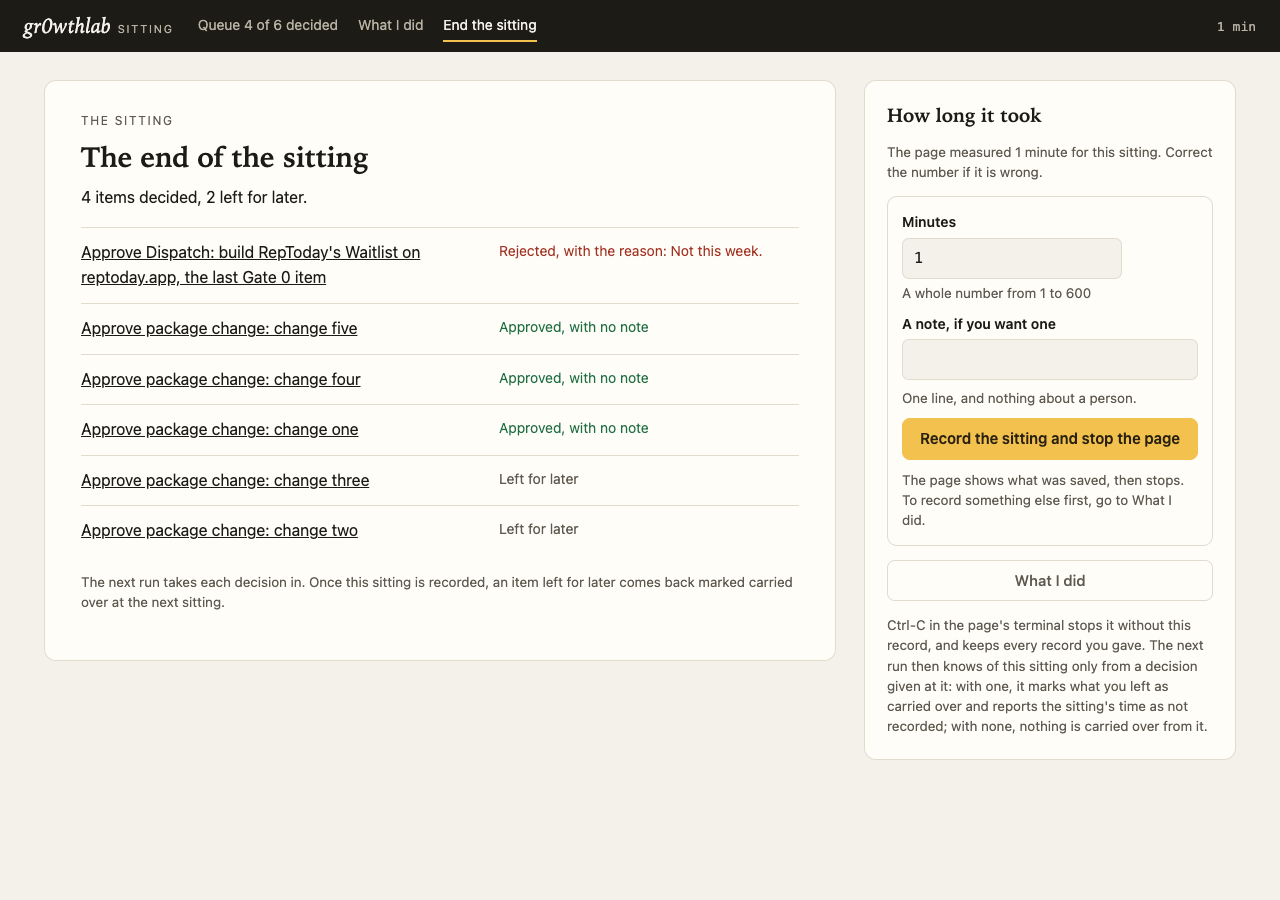
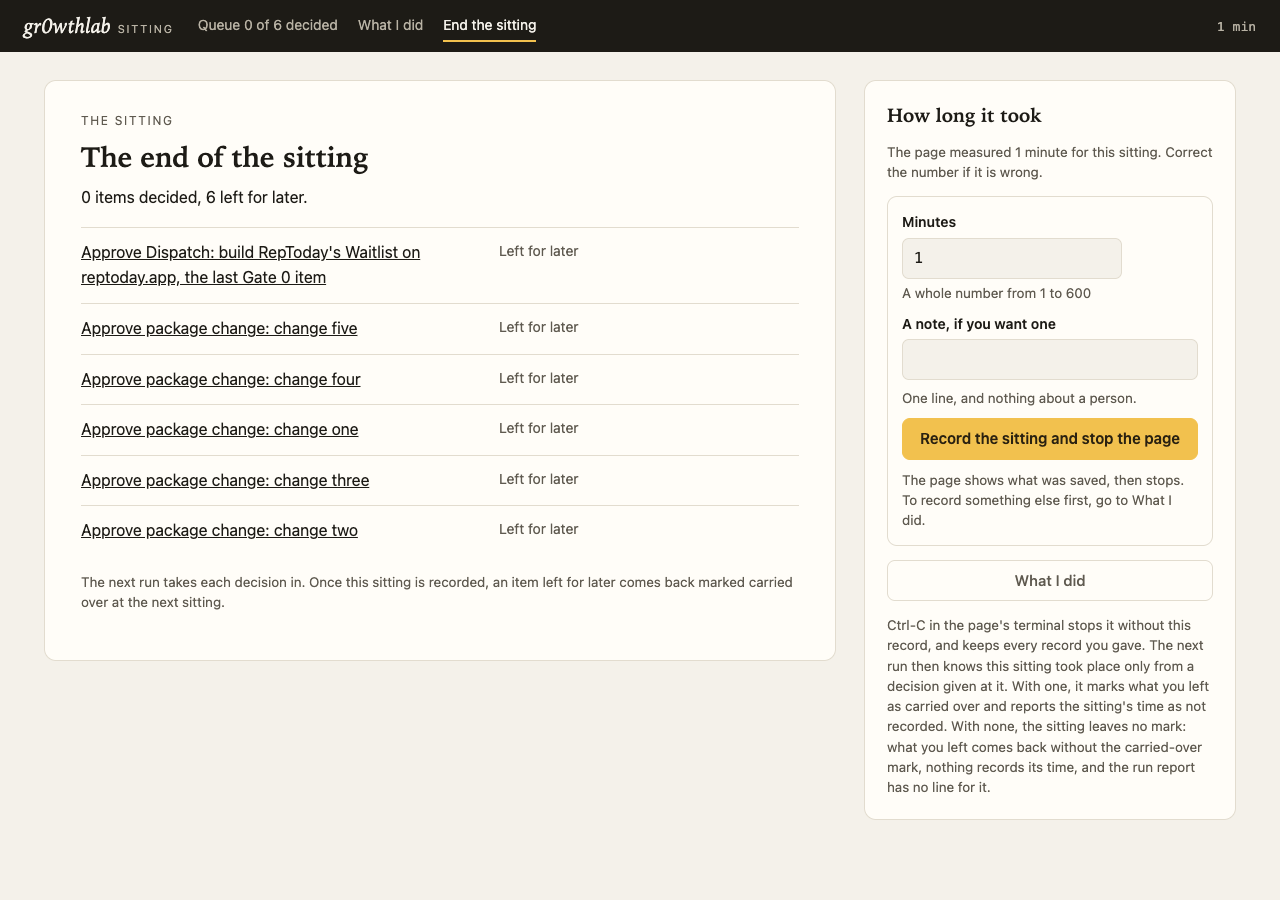
no-mistakes(review): First sessions back; corner unreported; 1289 tests, none failed

diff --git a/src/gr0wthlab/page.py b/src/gr0wthlab/page.py
@@ -22,9 +22,8 @@ from collections.abc import Iterable, Mapping, Sequence
 from urllib.parse import quote
 
 from . import exchange, founder, sitting
-from .beta import COUNT_LABELS
 from .exchange import plural
-from .sitting import COUNTS, END, ITEM, START, Entry, Message, Recruiting, Saved, View
+from .sitting import COUNT_LABELS, COUNTS, END, ITEM, START, Entry, Message, Recruiting, Saved, View
 
 VOID = ("br", "hr", "input", "link", "meta", "source")
 KIND_NAMES = {
@@ -208,7 +207,7 @@ def saved_words(saved: Saved) -> str:
         return f"The sitting on {record.get('date')} took {plural(record.get('minutes'), 'minute')}."
     if saved.kind == founder.BETA_REPORTS:
         counts = ", ".join(
-            f"{COUNT_LABELS[key]} {'not reported' if record.get(key) is None else record.get(key)}"
+            f"{COUNT_LABELS[key].lower()} {'not reported' if record.get(key) is None else record.get(key)}"
             for key in exchange.BETA_COUNTS
         )
         return f"{record.get('product')}, on {record.get('date')}: {counts}."
@@ -695,7 +694,7 @@ class Page:
                 "p",
                 f"Last given on {latest.day}: "
                 + ", ".join(
-                    f"{COUNT_LABELS[key]} "
+                    f"{COUNT_LABELS[key].lower()} "
                     + ("not reported" if latest.counts.get(key) is None else str(latest.counts[key]))
                     for key in exchange.BETA_COUNTS
                 )
@@ -718,7 +717,7 @@ class Page:
             class_="sheet",
         )
         fields = [
-            self.small_field(key, sitting.count_label(key), typed.get(key, ""), "A whole number, or leave it blank")
+            self.small_field(key, COUNT_LABELS[key], typed.get(key, ""), "A whole number, or leave it blank")
             for key in exchange.BETA_COUNTS
         ]
         answer = tag(
@@ -831,8 +830,8 @@ class Page:
                 "Ctrl-C in the page's terminal stops it without this record, and keeps every record you gave. The"
                 " next run then knows this sitting took place only from a decision given at it. With one, it marks"
                 " what you left as carried over and reports the sitting's time as not recorded. With none, the"
-                " sitting leaves no mark: what you left comes back without the carried-over mark, and its time is"
-                " not recorded.",
+                " sitting leaves no mark: what you left comes back without the carried-over mark, nothing records"
+                " its time, and the run report has no line for it.",
                 class_="hint",
             ),
             class_="answer",

diff --git a/src/tests/test_serve.py b/src/tests/test_serve.py
@@ -661,14 +661,14 @@ class WalkTest(ServeTestCase):
         self.assertEqual(status, 422)
         refused = Seen(body)
         named = [text.strip() for text in refused.text]
-        for label in ("Invitations sent", "Accepted", "Sessions booked"):
+        for label in ("Invitations sent", "Accepted", "First sessions booked"):
             with self.subTest(label=label):
                 self.assertIn(label, named, "the field's own name")
                 self.assertIn(f"{label} must be a whole number, written in digits.", refused.said)
         fields = {"invitations_sent": "10", "accepted": "", "sessions_booked": ""}
         path, shown = self.follow(self.post("/counts/RepToday", fields))
         self.assertEqual(path, f"/counts/RepToday?saved=RepToday-{DAY}&kind=beta-reports")
-        words = "invitations sent 10, accepted not reported, sessions booked not reported"
+        words = "invitations sent 10, accepted not reported, first sessions booked not reported"
         self.assertIn(f"Saved. RepToday, on {DAY}: {words}.", shown.said)
         record = self.record("beta-reports", f"RepToday-{DAY}")
         self.assertEqual((record["invitations_sent"], record["accepted"], record["sessions_booked"]), (10, None, None))
@@ -866,7 +866,8 @@ class EndTest(ServeTestCase):
     def test_a_sitting_that_left_no_sitting_record_and_no_decision_leaves_no_mark_whatever_else_it_saved(self):
         """The decided corner: five items left for later, a Beta Cohort report saved, and the page's process ended.
         The report is taken in as any report is, and it is no sign of a sitting: the five stay open without the
-        carried-over mark, and the run knows of no sitting, so no time is recorded for one."""
+        carried-over mark, and the run knows of no sitting, so nothing records that sitting's time and the run
+        report has no line for it."""
         fakes.beta_mandu(self.mandu)
         view = self.root / "RepToday-exports" / "waitlist-view.json"
         self.env["GR0WTHLAB_WAITLIST_VIEW"] = str(view)

diff --git a/src/gr0wthlab/sitting.py b/src/gr0wthlab/sitting.py
@@ -34,7 +34,6 @@ from pathlib import Path
 
 from . import exchange, founder
 from .areas import UnsafeFile, read_plain
-from .beta import COUNT_LABELS
 from .boundary import FOUNDER, LEDGER, PRODUCT_REGISTRY, ConfigError, canonical, load_json
 from .messages import CREATOR
 from .queue import APPROVED, OPEN, QUEUE_FILE, REVIEW_QUEUE
@@ -53,6 +52,13 @@ HOLDS_ADDRESS = (
     "it holds something that looks like an email address; no record may hold an address or anything else about a person"
 )
 START, ITEM, COUNTS, END = "start", "item", "counts", "end"
+# The three Beta Cohort counts as the page names them: on each field, in the reason a value typed there is refused,
+# and in what the page says was saved.
+COUNT_LABELS = {
+    "invitations_sent": "Invitations sent",
+    "accepted": "Accepted",
+    "sessions_booked": "First sessions booked",
+}
 
 
 class Refused(Exception):
@@ -194,12 +200,6 @@ class View:
         steps = self.steps()
         index = steps.index(step) if step in steps else 0
         return steps[max(index - 1, 0)]
-
-
-def count_label(key: str) -> str:
-    """One of the three Beta Cohort counts as the page names it: on its field, and in the reason a value typed there
-    is refused."""
-    return COUNT_LABELS[key][:1].upper() + COUNT_LABELS[key][1:]
 
 
 def one_line(value: str, name: str, required: bool, reasons: list[str]) -> str | None:
@@ -498,7 +498,7 @@ class Sitting:
             raise Refused([f"no Beta Build is recorded for {product}, so there is no Beta Cohort to count"])
         reasons: list[str] = []
         counts = {
-            key: whole_number(given.get(key, ""), count_label(key), 0, None, reasons) for key in exchange.BETA_COUNTS
+            key: whole_number(given.get(key, ""), COUNT_LABELS[key], 0, None, reasons) for key in exchange.BETA_COUNTS
         }
         if not reasons and all(value is None for value in counts.values()):
             reasons.append("give at least one count; a count you leave blank is recorded as not reported, never zero")

diff --git a/src/tests/test_sitting.py b/src/tests/test_sitting.py
@@ -686,7 +686,7 @@ class RecruitingTest(SittingTestCase):
             ),
             ({"accepted": "three"}, "Accepted must be a whole number, written in digits"),
             ({"accepted": "-1"}, "Accepted must be a whole number, written in digits"),
-            ({"sessions_booked": "2.5"}, "Sessions booked must be a whole number, written in digits"),
+            ({"sessions_booked": "2.5"}, "First sessions booked must be a whole number, written in digits"),
             ({"invitations_sent": "1e3"}, "Invitations sent must be a whole number, written in digits"),
         ):
             with self.subTest(given=given):

diff --git a/src/tests/test_page.py b/src/tests/test_page.py
@@ -385,7 +385,7 @@ class ViewTest(unittest.TestCase):
                 "beta-reports",
                 "RepToday-2026-10-11",
                 dict(counts, sessions_booked=0),
-                "RepToday, on 2026-10-11: invitations sent 8, accepted not reported, sessions booked 0.",
+                "RepToday, on 2026-10-11: invitations sent 8, accepted not reported, first sessions booked 0.",
             ),
             ("beta-builds", "RepToday", build, "RepToday: Beta Build approved on 2026-10-09; recruiting is open."),
             (

diff --git a/docs/live-checks/20261013-gr0wthlab-decisions-in-gr0wthlab.md b/docs/live-checks/20261013-gr0wthlab-decisions-in-gr0wthlab.md
@@ -11,7 +11,7 @@ How to read the paths:
 - `<lab>` is the throwaway lab under `<tmp>` described below.
 - Where a quoted line held the home folder's or the temporary folder's full path, that prefix was replaced with `~` or `<tmp>`.
 
-All times are Mac local time (PDT, UTC-7): rounds 1 and 2 on 2026-10-12, rounds 3, 4, and 5 on 2026-10-13.
+All times are Mac local time (PDT, UTC-7): rounds 1 and 2 on 2026-10-12, rounds 3 to 6 on 2026-10-13.
 A run identifier carries the UTC date, which was already the next day each time.
 Codex CLI 0.160.0 with `gpt-6-luna` at `high` reasoning effort throughout.
 
@@ -344,7 +344,7 @@ Both labs' second runs and the second lab's terminal said `1 minutes`; the run r
 ## Round 5: after the review of the carry-over rule
 
 Review asked whether a sitting should be known from more than a decision, and the rule was decided as it stood: a run knows a sitting took place from its sitting record, which the page writes when the Founder ends the sitting on the page, or from a decision given at it, and nothing else is read as the sign of a sitting.
-A sitting that ended without its record, by the terminal, a crash, or a closed laptop, and at which no decision was given, leaves no mark: its undecided items stay open and come back at the next sitting without the carried-over mark, its time is not recorded, and nothing the Founder saved is lost.
+A sitting that ended without its record, by the terminal, a crash, or a closed laptop, and at which no decision was given, leaves no mark: its undecided items stay open and come back at the next sitting without the carried-over mark, nothing records its time, the run report has no line for it, and nothing the Founder saved is lost.
 This round changed no part of that rule in code; it states the rule and that corner the same way wherever either is described, and holds the corner with a unit test.
 
 It also changed launcher code in four small ways, which is why the boundary was checked again:
@@ -401,13 +401,52 @@ The last view's closing lines read, in that browser, as the page now has them: w
 - `ruff check` and `ruff format --check` on `src` and `src/bin/gr0wthlab`, ruff 0.15.20: clean.
 - The latest-Python job of CI, which runs on Linux, was not run here.
 
+## Round 6: the page's own name for the third count, and the corner in plain words
+
+Round 5 had the page take the run report's names for the three Beta Cohort counts, which renamed the page's third field to `Sessions booked`.
+That rename was not asked for, and the count means first sessions, so this round put the page's words back: the third count is `First sessions booked` on its field, in the reason a value typed there is refused, in what the page says was saved, and in its `Last given on` line.
+The page still has one set of names for the three, `sitting.COUNT_LABELS`, which the field and its refusal both read; the run report's own line keeps the wording it has on `main`, `sessions booked`, and neither follows the other.
+
+This round also says the corner of round 5 in plain words wherever it is described.
+For a sitting that left no sitting record and at which no decision was given, the run knows of no sitting: nothing records that sitting's time, and the run report has no line for it.
+The instruction for round 5's test had said the run report would say the time was not recorded; that was wrong for this corner and was withdrawn, and the test's assertions, which hold that the report has no line of a sitting, stand as they were.
+
+This round changed only the page (`src/gr0wthlab/sitting.py` and `src/gr0wthlab/page.py`), its tests, and documents, so no preflight and no boundary check was owed, and neither was run: round 5's stand.
+It ran on 2026-10-13 from about 20:26 to 20:57, on the tree this record lands with: `src` tree `36050227b795155180020e3d0a5e7039d6f7e032`, `config` tree unchanged, `b43d0624383aada9155906ee4b54515c3ecb3a5d`.
+
+### The page in a browser
+
+One throwaway lab under `<tmp>`, built from the worktree as round 5's was, with the no-model Codex stand-in, so no model was called; the sitting was driven in headless Chrome through `chrome-devtools-axi`.
+
+| Step | Run | What the page showed |
+| --- | --- | --- |
+| `src/bin/gr0wthlab run`, the stand-in writing five proposals | `20261014T032613Z-on-demand-d548` | 6 items open |
+| `src/bin/gr0wthlab sitting`: a Beta Build recorded on `What I did` by a click; on the counts view, `2.5` typed in the third field and the form sent | none | the field reads `First sessions booked`, and the page answered "Nothing was saved." and "First sessions booked must be a whole number, written in digits." |
+| the same view: 3 invitations sent and 1 accepted typed, the third field left blank, and the form sent | none | "Saved. RepToday, on 2026-10-13: invitations sent 3, accepted 1, first sessions booked not reported.", and "Last given on 2026-10-13: invitations sent 3, accepted 1, first sessions booked not reported." |
+| the last view opened | none | its closing lines end: "With none, the sitting leaves no mark: what you left comes back without the carried-over mark, nothing records its time, and the run report has no line for it." |
+| the page's process sent `kill -TERM`, the signal whose handler Ctrl-C shares | none | the terminal said `the sitting page has stopped`, and the command ended |
+
+No run followed that sitting: round 5's lab and `src/tests/test_serve.py` hold what a run makes of it.
+
+### What round 6 did not exercise
+
+- The preflight, the boundary check, the hole tests, and a weekly run with the real agent: this round changed no launcher code and no part of the permission profile.
+- The run report's counts line: unchanged, and `src/tests/test_sitting.py` and `src/tests/test_beta_cycle.py` hold its wording.
+- The page's other views, a narrow width, and the dark color scheme: unchanged this round.
+- A scheduled run, the real production clone, Mandu's side, and a browser other than Chrome, as in round 1.
+
+### Unit tests and lint on this round's tree
+
+- `/usr/bin/python3 -m unittest discover -s src/tests -t src`, under Python 3.9.6, run in the background on this round's tree: 1289 tests in 1839 s, and none failed.
+  Nothing under `src/` or `config/` changed after that run began.
+- `ruff check` and `ruff format --check` on `src` and `src/bin/gr0wthlab`, ruff 0.15.20: clean.
+- The latest-Python job of CI, which runs on Linux, was not run here.
+
 ## Screenshots
 
 Taken in round 2, on the page code as it was then, from the synthetic checkout; every name, message, and figure in them is fixture text.
 The merge in round 3 changed none of the page's own files.
-Round 4 changed the last view, so its screenshot, the end of the sitting, was taken again in round 4, from the second lab above.
-Round 5 renamed the third count's field, so the screenshot of the counts was taken again in round 5, from that round's lab.
-Round 5 also reworded the closing lines of the last view's side panel, and the end of the sitting was not taken again: its screenshot shows those lines as round 4 had them.
+Rounds 4 to 6 changed two views, the Beta Cohort counts and the end of the sitting, and both screenshots were taken again in round 6, from that round's lab, on the page as it is now.
 
 | Screen | Laptop, 1280 wide | Narrow, 390 wide |
 | --- | --- | --- |

diff --git a/docs/operations.md b/docs/operations.md
@@ -286,7 +286,7 @@ What the page walks through, one thing at a time:
    A carried-over item says so, and from which sitting.
    A post that shows a video plays that file on the page, so the video and its copy are approved together; when the file is missing, or is not the file the run measured, the page says so and offers no approval.
    A package-change proposal says what it declares about Angles and Hooks, since the Founder is the only check on that.
-3. While a Product's Beta Cohort is being recruited, the three counts: invitations sent, accepted, and sessions booked, each a total to date.
+3. While a Product's Beta Cohort is being recruited, the three counts: invitations sent, accepted, and first sessions booked, each a total to date.
    A count left blank is recorded as not reported, never as zero.
 4. The end: how long the sitting took, which the page measured and the Founder can correct, and one button that records the sitting and stops the page.
 
@@ -360,7 +360,7 @@ So, for a sitting that ended without its record:
 - With at least one decision given at it, every item left undecided is still marked carried over from that sitting, and the run report says `Sitting <date>: its time was not recorded.`
   That time is kept as not recorded, never as zero.
 - With no decision given at it, the sitting leaves no mark.
-  Its undecided items stay open and come back at the next sitting without the carried-over mark, its time is not recorded, and nothing the Founder saved is lost.
+  Its undecided items stay open and come back at the next sitting without the carried-over mark, nothing records its time, the run report has no line for it, and nothing the Founder saved is lost.
 
 An item counts as left undecided at a sitting when it is still open, was queued on or before the sitting's date, and was queued before a run first took in that sitting's record or a decision given at it.
 

diff --git a/AGENTS.md b/AGENTS.md
@@ -13,7 +13,7 @@ gr0wthlab is the Marketing Engineer's repository; [`README.md`](README.md) gives
   It is standard library only, starts no process, opens no connection, and calls no model; `src/tests/test_founder.py`, `test_page.py`, `test_sitting.py`, and `test_serve.py` hold each of these, and a change to the page is also driven in a real browser, which sends what no unit test's request does.
   A run knows a sitting took place from its sitting record, which the page's last view writes as its one way to finish before it stops, or from the `sitting` date of a decision given at it, and marks what that sitting left undecided as carried over; nothing else is read as the sign of a sitting.
   A sitting known from a decision alone has no time: its Evidence keeps `minutes` as null, and nothing counts it as zero.
-  A sitting that left neither leaves no mark: its undecided items come back without the carried-over mark, its time is not recorded, and nothing saved at it is lost.
+  A sitting that left neither leaves no mark: its undecided items come back without the carried-over mark, nothing records its time, the run report has no line for it, and nothing saved at it is lost.
   gr0wthlab reads nothing from Mandu but the Go-To-Market Package: `mandu.exchange` and `GR0WTHLAB_EXCHANGE_DIR` are gone and are no longer read.
 - [The v1 PRD](docs/prd/prd-marketing-engineer-v1_261008.md) is the story tracker: when a story lands and its Validation Test passes, flip that story's acceptance-criteria checkboxes and no others.
 - `workspace/` is the agent's only writable tree (Guardrail G1); code in `src/`, configuration in `config/` (Guardrails, the Product registry, and the run settings), and docs change only through firstmate's reviewed pull requests (G8).

diff --git a/docs/adr/0002-the-founder-decides-in-gr0wthlab.md b/docs/adr/0002-the-founder-decides-in-gr0wthlab.md
@@ -66,7 +66,7 @@ gr0wthlab reads no record from Mandu any more.
   That is the one way to finish from the page: one click saves the sitting record, shows what was saved, and stops the page.
   A run knows a sitting took place from that record or from a decision given at it, and marks what the sitting left undecided as carried over; nothing else is read as the sign of a sitting.
   Where a decision was given at a sitting that ended without its record, the sitting's time is reported as not recorded, never as zero.
-  A sitting that ended without its record, by the terminal, a crash, or a closed laptop, and at which no decision was given, leaves no mark: its undecided items stay open and come back at the next sitting without the carried-over mark, its time is not recorded, and nothing the Founder saved is lost.
+  A sitting that ended without its record, by the terminal, a crash, or a closed laptop, and at which no decision was given, leaves no mark: its undecided items stay open and come back at the next sitting without the carried-over mark, nothing records its time, the run report has no line for it, and nothing the Founder saved is lost.
 - Beside the walk it has one plain place for what the Founder did: a message sent, a reply received, the wait before a follow-up, a Beta Build approved, recruiting stopped or reopened.
 
 What the Founder clicks is what is saved, and the page then shows the record as it reads it back from the file.

diff --git a/docs/mandu-exchange.md b/docs/mandu-exchange.md
@@ -316,7 +316,7 @@ Nothing else is read as the sign of a sitting: not a Beta Build record, a Beta C
 gr0wthlab counts an item as left undecided at the sitting when the item is still open, was queued on or before the sitting's date, and was queued before a run first took in that sitting's record or a decision given at it.
 Where a sitting ended without this record and a decision was given at it, its time is not known: the run report says the sitting's time was not recorded, and it is never counted as zero.
 A sitting that ended without this record, by the terminal, a crash, or a closed laptop, and at which no decision was given, leaves no mark.
-Its undecided items stay open and come back at the next sitting without the carried-over mark, its time is not recorded, and nothing the Founder saved is lost.
+Its undecided items stay open and come back at the next sitting without the carried-over mark, nothing records its time, the run report has no line for it, and nothing the Founder saved is lost.
 
 ## Beta Build records
 
